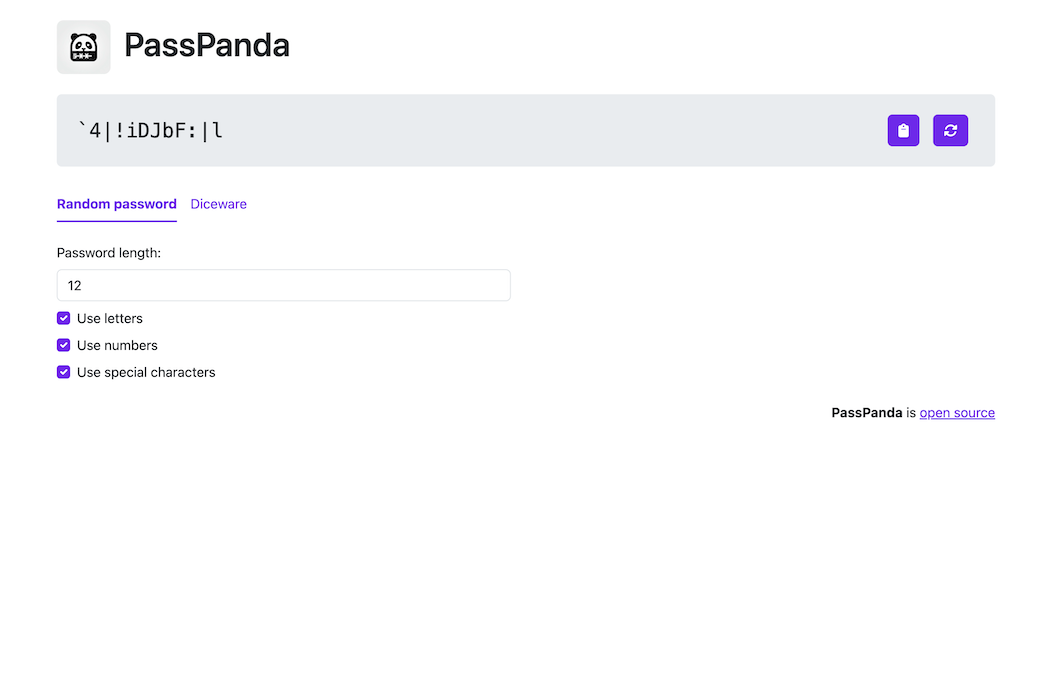
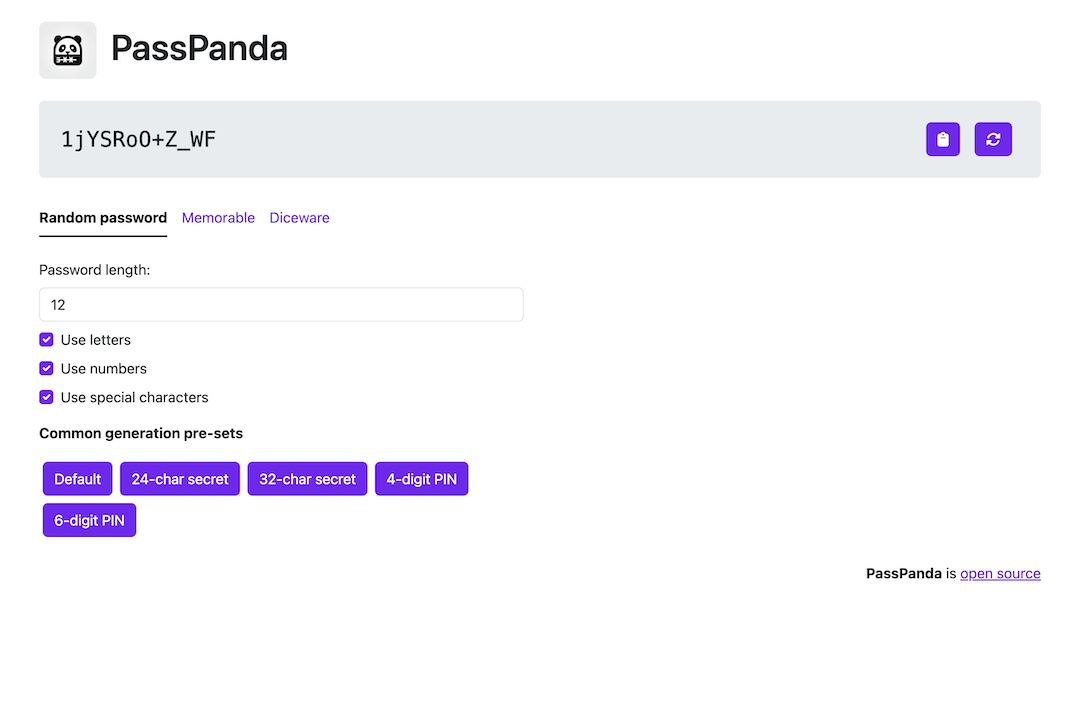
Update app description and screenshots

diff --git a/README.md b/README.md
@@ -27,9 +27,13 @@ PassPanda is a user-friendly static web application designed to facilitate the g
 
     - Users can generate common passwords with customizable parameters such as length and inclusion of letters, numbers, and special characters.
 
+- **Easily Memorable Passwords**
+
+    - PassPanda can also generate easily memorable passwords using the [omgopass library](https://github.com/Omgovich/omgopass), which creates passwords that are both strong and simple to recall.
+
 - **Diceware Passphrase Generation**
 
-    - PassPanda offers the generation of Diceware passphrases, leveraging the renowned method of creating strong yet memorable passwords through randomly selected words.
+    - PassPanda offers the generation of Diceware passphrases (based on the [EFF word list](https://www.eff.org/files/2016/07/18/eff_large_wordlist.txt)), leveraging the renowned method of creating strong yet memorable passwords through randomly selected words.
 
 - Clipboard Copy Functionality
 - Regenerate Button
@@ -38,6 +42,8 @@ PassPanda is a user-friendly static web application designed to facilitate the g
 ### Screenshots
 
 <img src=".github/media/screenshot_common.png" alt="Common password generation page">
+
+<img src=".github/media/screenshot_memorable.png" alt="Memorable password generation page">
 
 <img src=".github/media/screenshot_passphrase.png" alt="Passphrase generation page">
 
